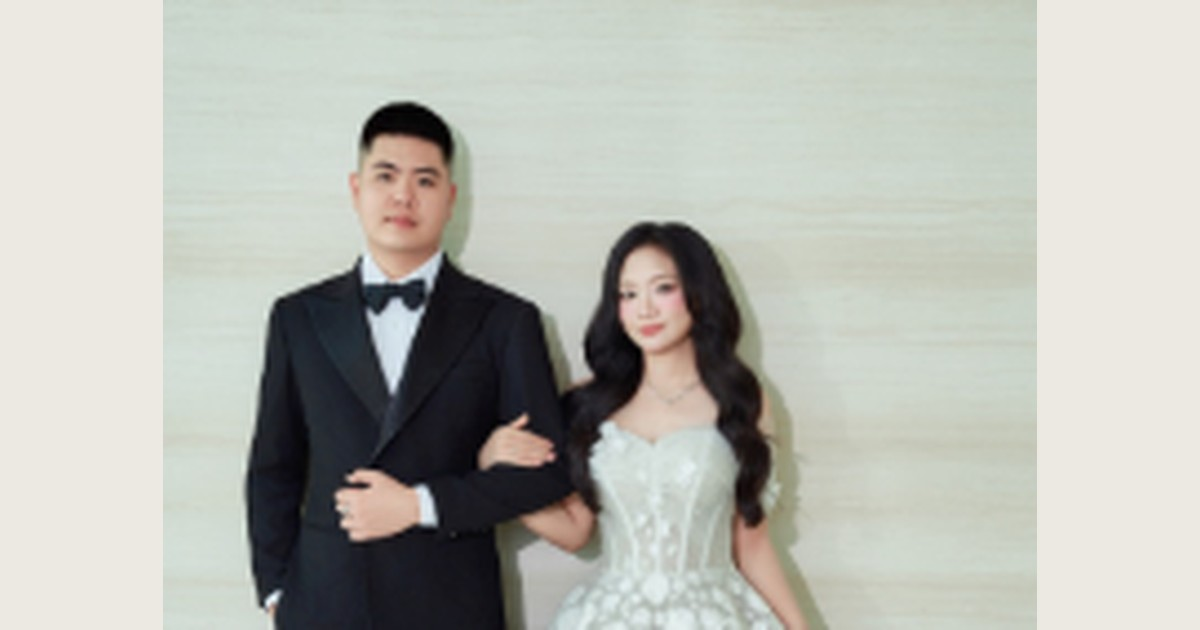
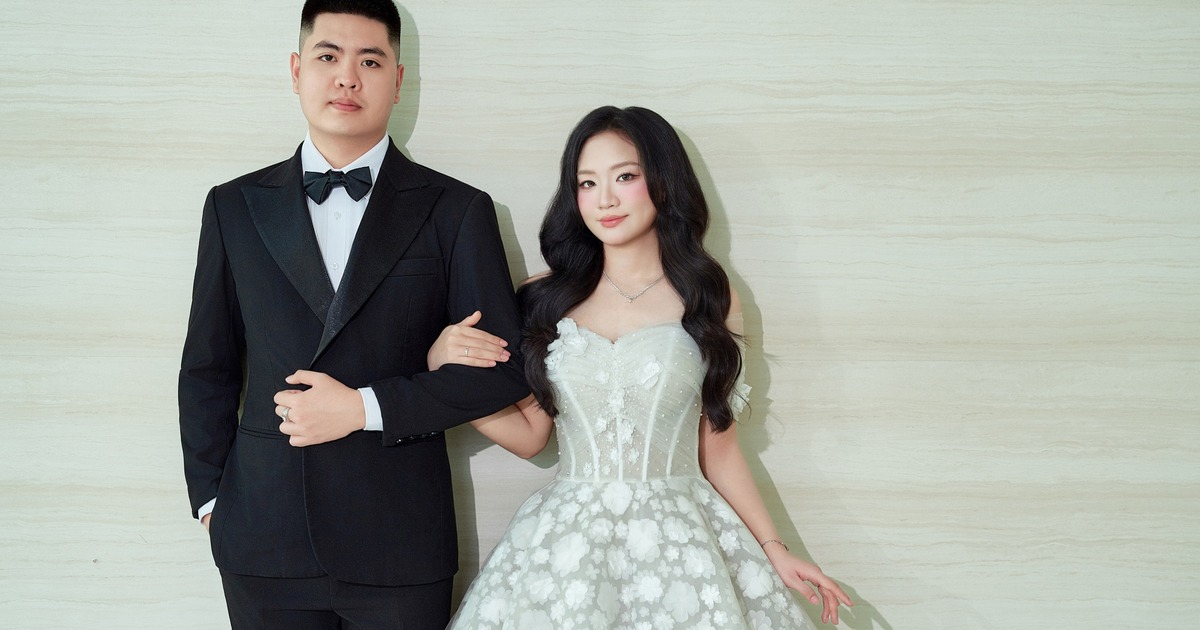
Update Open Graph image to version 4 for improved display; adjust image path in layout.tsx to reflect the new version.

diff --git a/my-app/app/layout.tsx b/my-app/app/layout.tsx
@@ -32,7 +32,7 @@ const montserrat = Montserrat({
 });
 
 /** Manual OG art — public/images/og-preview.jpg (1200×630). */
-const OG_IMAGE_PATH = "/images/og-preview.jpg?v=3";
+const OG_IMAGE_PATH = "/images/og-preview.jpg?v=4";
 const OG_IMAGE_WIDTH = 1200;
 const OG_IMAGE_HEIGHT = 630;
 
